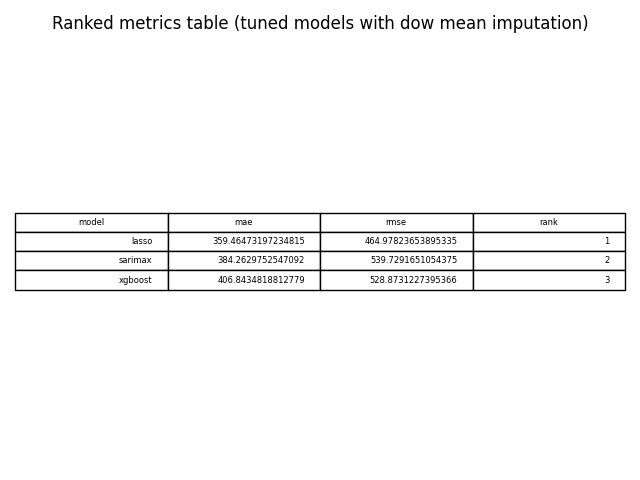
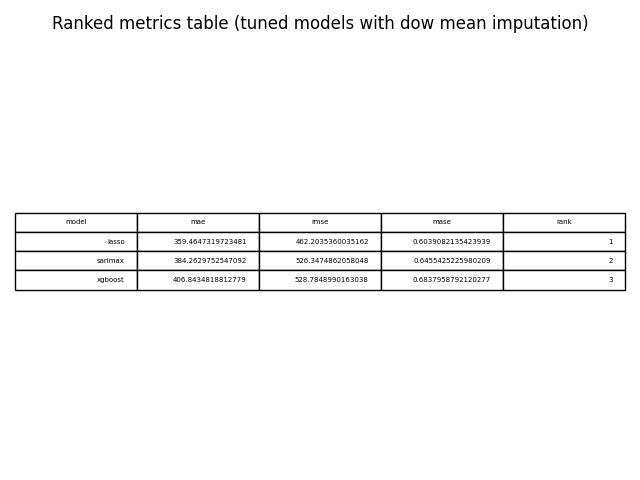
feat:  MASE included within imputation analysis ranked metrics tables

diff --git a/src/analysis/impute_analysis.py b/src/analysis/impute_analysis.py
@@ -22,8 +22,8 @@ def impute_analysis_plots(global_median_df: pd.DataFrame,
     absolute_error_plot(median_oos_list, models, "Absolute error over time for tuned models with global median imputation", "absolute_error_median_impute", "imputation_analysis_figures")
     absolute_error_plot(mean_oos_list, models, "Absolute error over time for tuned models with dow mean imputation", "absolute_error_mean_impute", "imputation_analysis_figures")
 
-    median_ranked = ranked_summary(median_oos_list, models)
-    mean_ranked = ranked_summary(mean_oos_list, models)
+    median_ranked = ranked_summary(median_metrics_list, models)
+    mean_ranked = ranked_summary(mean_metrics_list, models)
 
     ranked_table(median_ranked, "Ranked metrics table (tuned models with global median imputation)", "metrics_table_median_impute", "imputation_analysis_figures")
     ranked_table(mean_ranked, "Ranked metrics table (tuned models with dow mean imputation)", "metrics_table_mean_impute", "imputation_analysis_figures")
